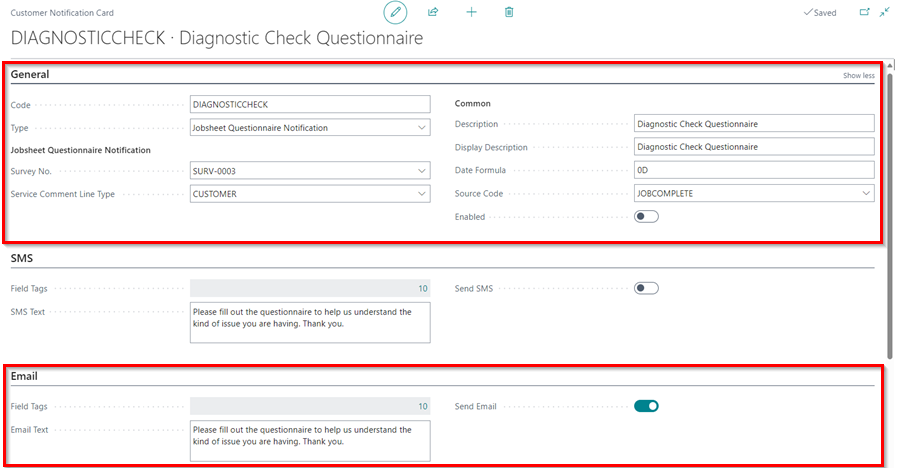
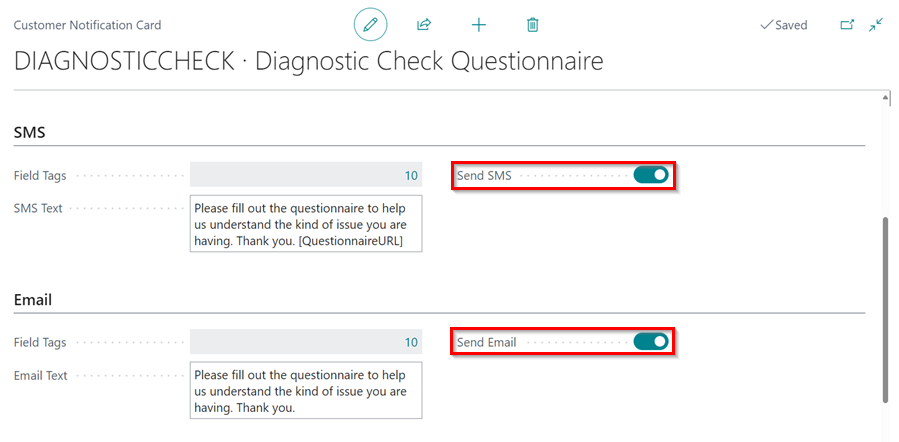
questionnaire1

diff --git a/docs/garagehive-diagnostic-questionnaire.md b/docs/garagehive-diagnostic-questionnaire.md
@@ -24,6 +24,9 @@ Diagnostic questionnaires are used by garages to gather additional information a
 
 3. Click on **New** to create a new **Customer Notification**.
 4. Choose **Jobsheet Questionnaire Notification** as the **Type**, select the diagnostic questionnaire survey that you created in the **Survey No.** field, set the **Service Comment Line Type**, enter the **Description**, and specify the **Date Formula** as **0D**.
+
+   ![](media/garagehive-creating-diagnostic-questionanaires8.png)
+
 5. In the **SMS Text** field, add the Questionnaire URL tag from the Field Tags. Click on the **Field Tags** number to view available field tags and copy the one for questionnaire.
 
    ![](media/garagehive-creating-diagnostic-questionanaires7.png)
